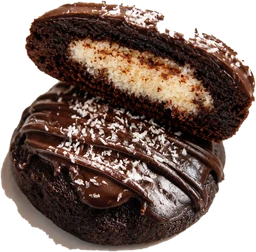
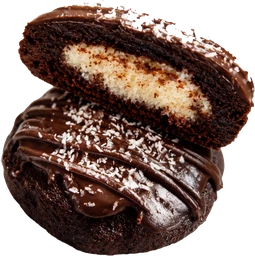
Re-cut the coconut cookie so the pink stops bleeding through its edge
Ray spotted the page background showing through the top of the coconut
cutout. The old cutout came from a luminance threshold with a blurred
alpha, which left 2,619 semi-transparent pixels of the photo's pale plate
in the outline (mean RGB 169,140,121 at ~50% alpha). At partial alpha those
pale pixels let the pink through.

Recut from the clean white-background photo Ray supplied, and the obvious
fix was not enough on its own: a 238 threshold still left the photo's
anti-aliased rim inside the mask, so colour decontamination had nothing but
near-white to sample (the rim measured 235,228,227). Dropping to a 210
threshold plus a 3px erosion puts the boundary on real cookie, and only then
does extending cookie colour outward via a distance transform do its job.

Edge now measures RGB 131,94,77 with 18.5% light pixels, against 96.8% for
the naive recut and 31.2% for what shipped.

README records the full four-step recipe so the next cookie does not repeat
this.

diff --git a/README.md b/README.md
@@ -70,9 +70,16 @@ and `--brown-deep` is reserved for shadows.
 ## Notes for future edits
 
 - **Cookie images** are cut out from photos shot on plain white. To add one,
-  shoot it top-down on white and remove the background with a flood fill from
-  the image borders — a plain white-threshold key eats white chocolate chips
-  and frosting.
+  shoot it top-down on white, then:
+  1. Flood fill from the image borders, never a plain white threshold — a
+     global key eats white chocolate chips, coconut and frosting.
+  2. Threshold around 210, not 240. A photo's edge is anti-aliased, so a high
+     threshold leaves a pale rim *inside* the mask.
+  3. Erode the mask ~3px so the boundary sits on real cookie pixels.
+  4. Extend cookie colour outward (nearest-neighbour via distance transform)
+     before feathering the alpha. Otherwise semi-transparent edge pixels keep
+     the white background colour, and the page background bleeds through the
+     outline. This is what went wrong on the coconut cookie.
 - **The blob morph is CSS, not GSAP** (`@keyframes blobMorph`). GSAP's string
   interpolation drops the `/` half of an 8-value `border-radius`, which
   flattens the blobs into squircles.
